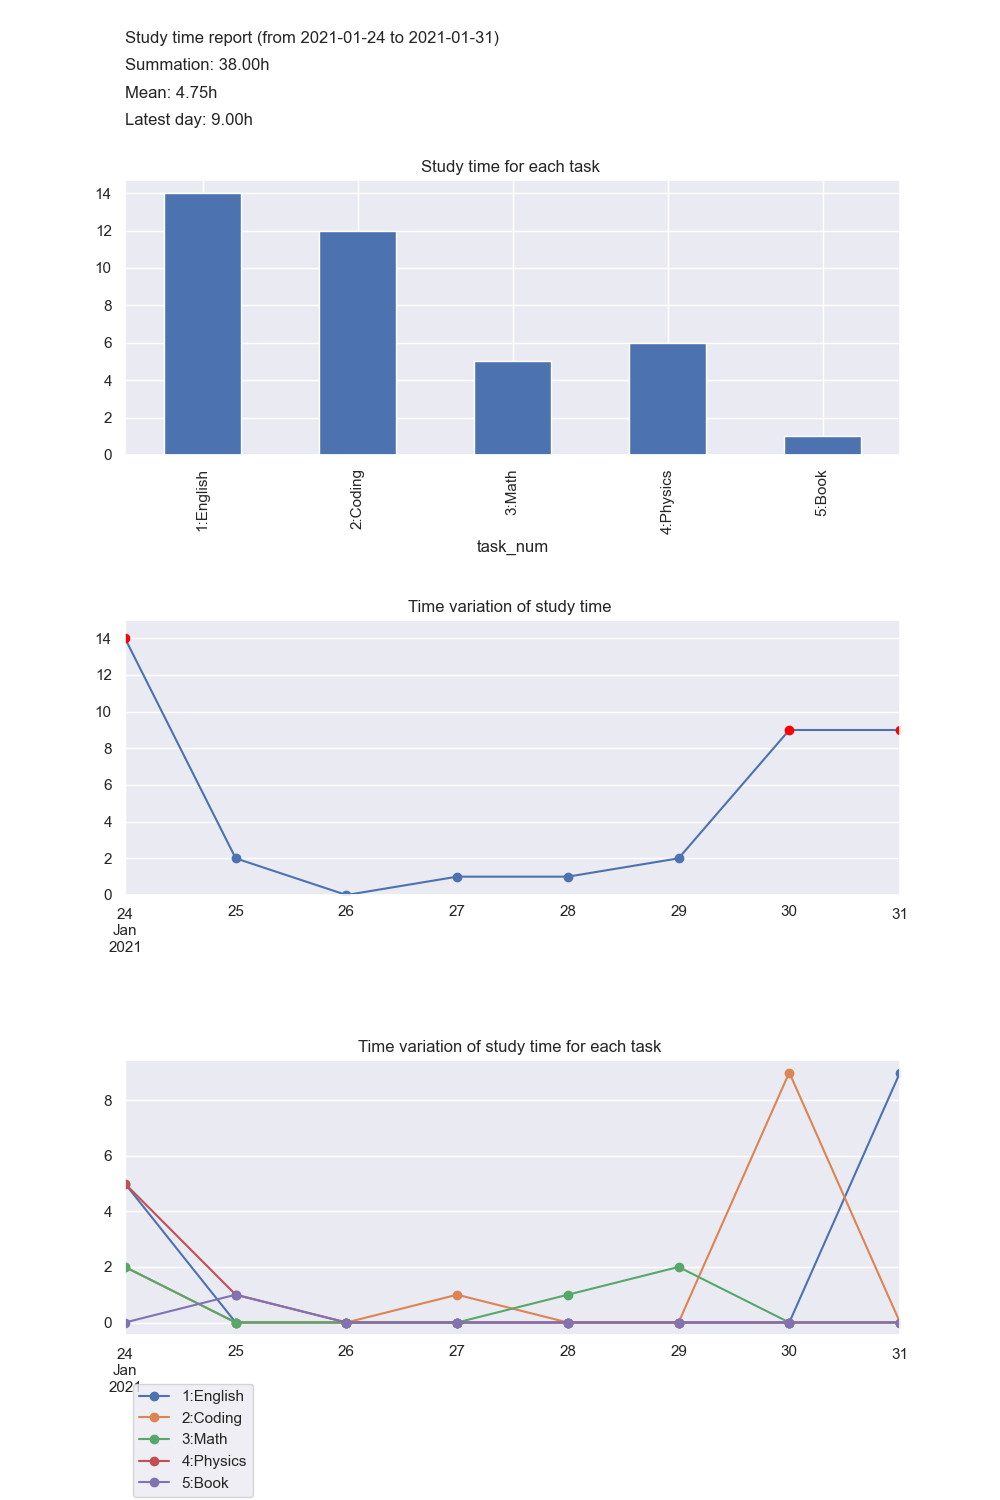
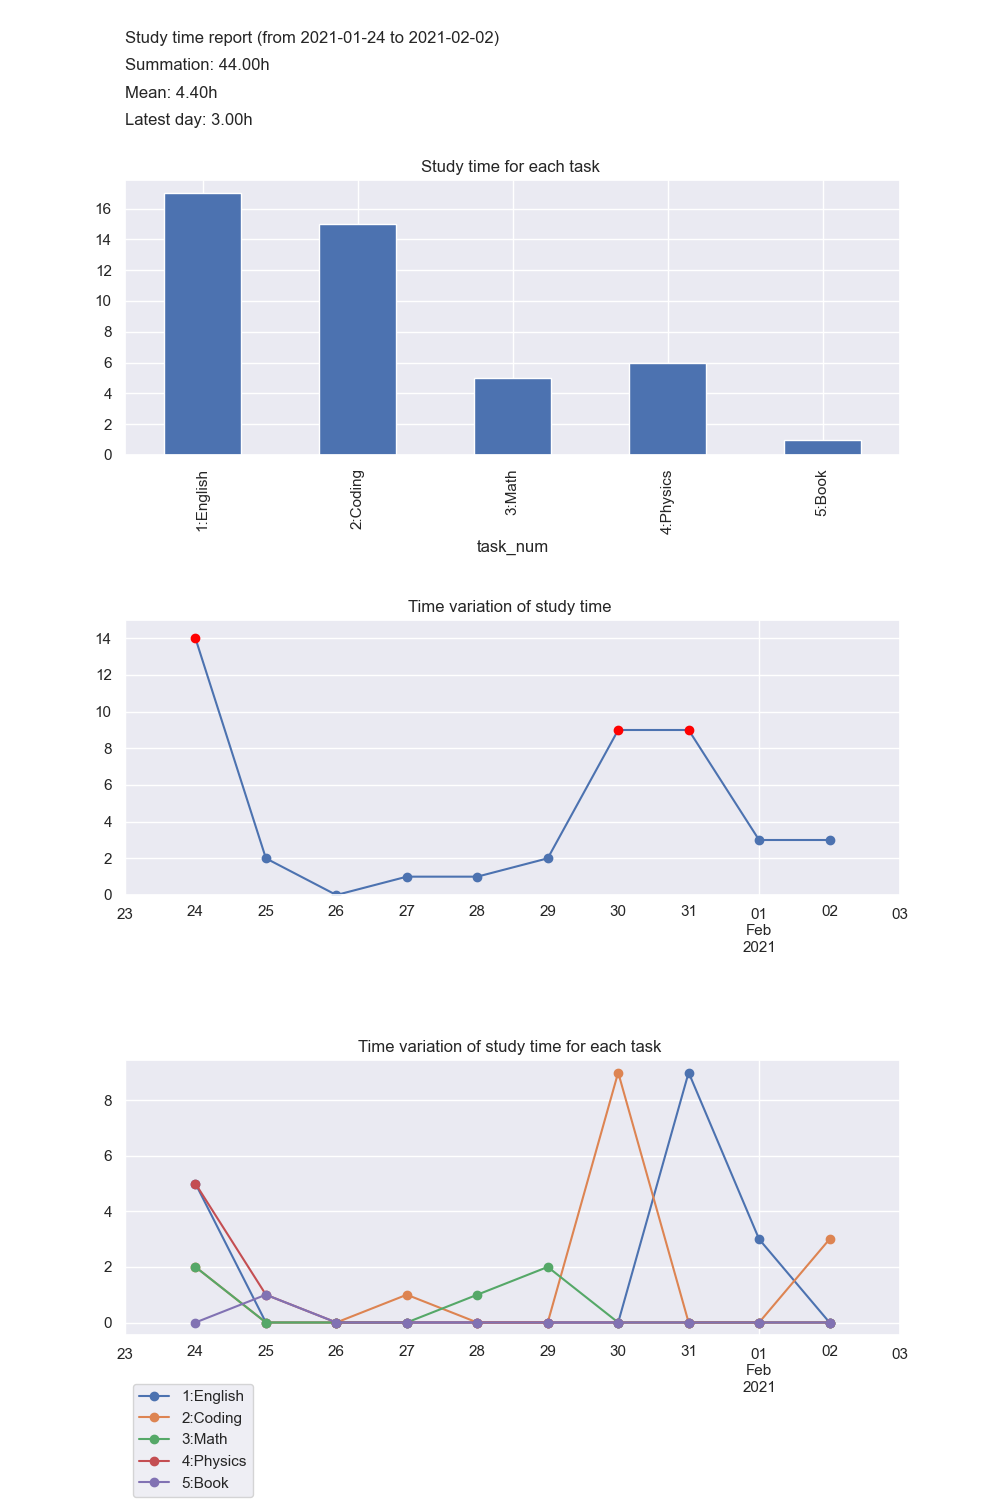
chore: modify xlim of the second graph

diff --git a/src/analyze_activity.py b/src/analyze_activity.py
@@ -124,6 +124,7 @@ class analyze_activitiy:
         ComplementDate(date_gdf).plot(marker='o',ax=axes[1],
                                 markevery=holiday_index,linestyle="None",color="red",legend=None)
         axes[1].set_ylim([0,date_gdf["hour"].max()+1])
+        axes[1].set_xlim(min_date-timedelta(days=1),max_date+timedelta(days=1))
 
         # graph 2
         axes[2].set_title(f"Time variation of study time for each task ")
@@ -135,6 +136,7 @@ class analyze_activitiy:
             except:
                 pass
         axes[2].legend(legend_list,bbox_to_anchor=(0, -0.15),loc='upper left')
+        axes[2].set_xlim(min_date-timedelta(days=1),max_date+timedelta(days=1))
 
         plt.subplots_adjust(wspace=0.4, hspace=0.6)
         plt.savefig(self.savepath)

diff --git a/README.md b/README.md
@@ -2,7 +2,9 @@
 勉強時間を可視化するPythonスクリプトです。
 下記のようなグラフを画像として出力することができます。
 
-![](./sample/sample.png)
+|sample.png|
+| :--- |
+|![](./sample/sample.png)|
 
 ## 各グラフ説明
 グラフは下記の3つ出力されます。
